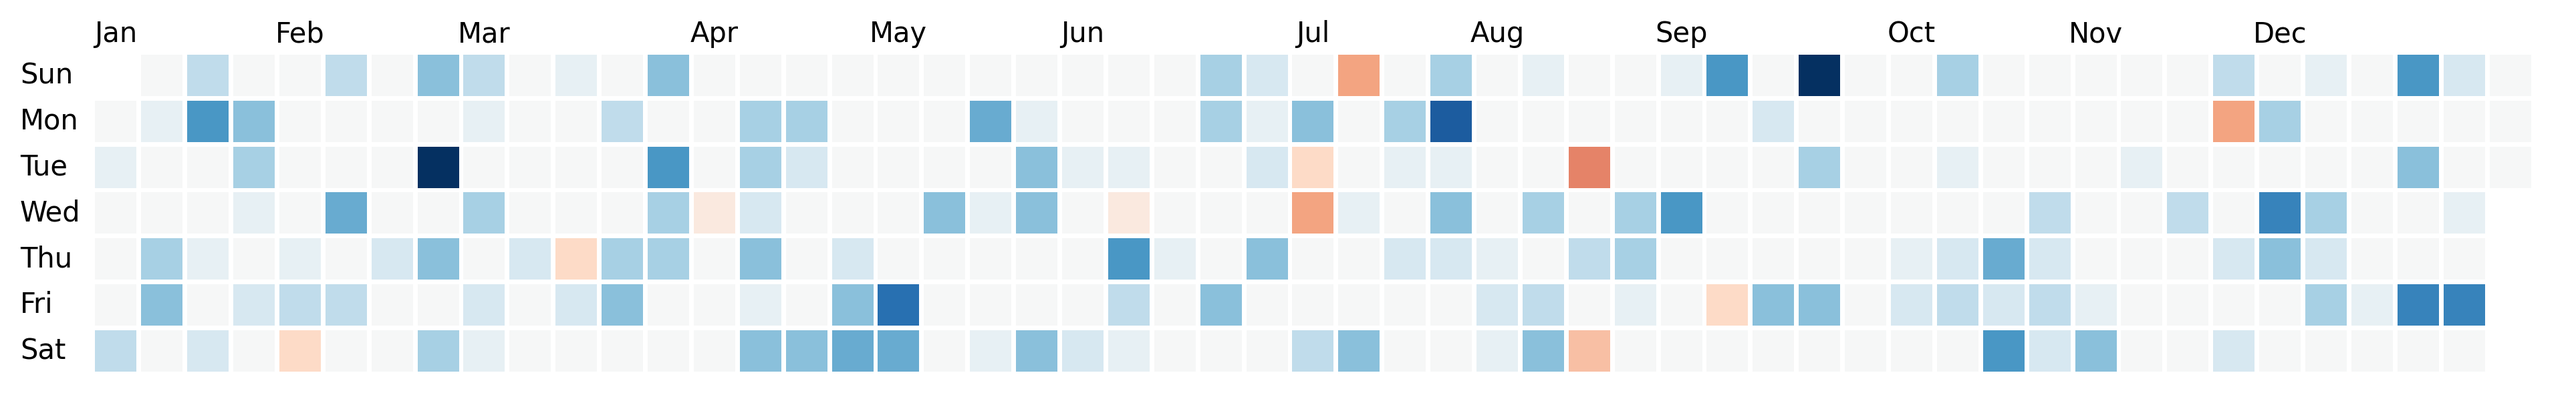
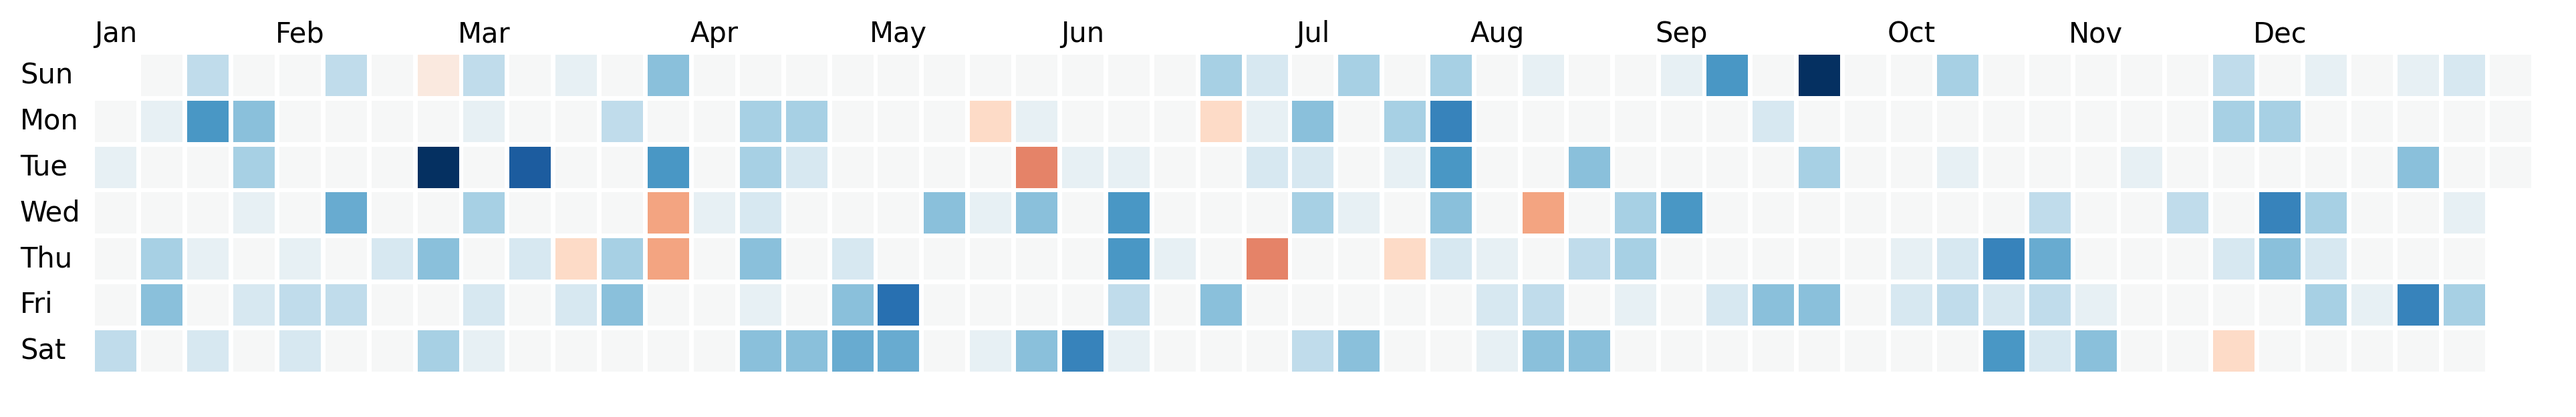
more advanced

diff --git a/docs/scripts/make.py b/docs/scripts/make.py
@@ -1,4 +1,6 @@
 import matplotlib.pyplot as plt
+import numpy as np
+from PIL import Image
 from pypalettes import load_cmap
 from pyfonts import load_font
 import os
@@ -95,6 +97,7 @@ dp.calendar(
     values=df["values"],
     start_date="2025-01-01",
     end_date="2025-12-31",
+    cmap="Blues",
     ax=ax1,  # top axes
 )
 dp.calendar(
@@ -102,6 +105,7 @@ dp.calendar(
     values=df["values"],
     start_date="2024-01-01",
     end_date="2024-12-31",
+    cmap="Blues",
     ax=ax2,  # bottom axes
 )
 
@@ -115,6 +119,7 @@ dp.calendar(
     values=df["values"],
     start_date="2025-01-01",
     end_date="2025-12-31",
+    cmap="inferno",
     ax=ax1,  # top axes
 )
 dp.calendar(
@@ -122,6 +127,7 @@ dp.calendar(
     values=df["values"],
     start_date="2024-01-01",
     end_date="2024-12-31",
+    cmap="inferno",
     ax=ax2,  # bottom axes
 )
 text_args = dict(x=-4, y=3.5, size=30, rotation=90, color="#afafaf", va="center")
@@ -328,6 +334,69 @@ axs[1].text(s="2018", **text_args)
 axs[2].text(s="2017", **text_args)
 
 fig.savefig("docs/img/advanced/advanced-1.png", bbox_inches="tight", dpi=300)
+
+########################################################################
+
+df = pd.read_csv("elonmusk.csv")
+df["Datetime"] = pd.to_datetime(df["Datetime"])
+df["Date"] = df["Datetime"].dt.strftime("%Y-%m-%d")
+df = df.groupby("Date").size().reset_index(name="n_tweets")
+df = df[df["Date"] <= "2022-12-31"]
+df = df[df["Date"] >= "2011-01-01"]
+
+cmap = load_cmap("deep_purple_material", cmap_type="continuous", keep_last_n=10)
+cmap = load_cmap("ag_Sunset", cmap_type="continuous", reverse=True)
+font_url = "https://github.com/kosmynkab/Bona-Nova/blob/main/fonts/ttf"
+fontlight = load_font(f"{font_url}/BonaNova-Regular.ttf?raw=true")
+fontmedium = load_font(f"{font_url}/BonaNova-Bold.ttf?raw=true")
+font_url = "https://github.com/coreyhu/Urbanist/blob/main/fonts/ttf"
+fontyear = load_font(f"{font_url}/Urbanist-Medium.ttf?raw=true")
+
+style_args = dict(
+    cmap=cmap,
+    day_kws={"alpha": 0},
+    month_kws={"font": fontlight, "size": 6},
+    month_y_margin=0.8,
+    color_for_none="#eeeeee",
+)
+text_args = dict(
+    x=-4, y=3.5, size=15, rotation=90, color="#aaa", va="center", font=fontyear
+)
+
+years = list(range(2011, 2023))[::-1]
+fig, axs = plt.subplots(nrows=len(years), figsize=(15, 10))
+for i, year in enumerate(years):
+    dp.calendar(
+        df["Date"],
+        df["n_tweets"],
+        start_date=f"{year}-01-01",
+        end_date=f"{year}-12-31",
+        ax=axs[i],
+        **style_args,
+    )
+    axs[i].text(s=f"{year}", **text_args)
+
+fig.text(
+    x=0.39,
+    y=0.91,
+    s="Elon Musk Tweets",
+    size=20,
+    font=fontmedium,
+)
+fig.text(
+    x=0.63,
+    y=0.1,
+    s="made with dayplot, by Joseph Barbier",
+    size=7,
+    ha="right",
+    font=fontmedium,
+)
+
+elon_ax = axs[0].inset_axes([0.7, 1.1, 0.3, 1.4])
+elon_ax.imshow(np.array(Image.open("docs/img/musk.png")))
+elon_ax.axis("off")
+
+fig.savefig("docs/img/advanced/advanced-2.png", bbox_inches="tight", dpi=300)
 
 ########################################################################
 

diff --git a/docs/scripts/gallery.py b/docs/scripts/gallery.py
@@ -85,5 +85,11 @@ def generate_gallery_markdown(image_dir, output_file, subdirs):
 if __name__ == "__main__":
     IMAGE_DIR = "docs/img/"
     OUTPUT_FILE = "docs/gallery.md"
-    SUBDIRECTORIES = ["basic-styling", "boxstyle", "combine-charts", "negative-values"]
+    SUBDIRECTORIES = [
+        "basic-styling",
+        "boxstyle",
+        "combine-charts",
+        "negative-values",
+        "advanced",
+    ]
     generate_gallery_markdown(IMAGE_DIR, OUTPUT_FILE, SUBDIRECTORIES)

diff --git a/docs/tuto/advanced.md b/docs/tuto/advanced.md
@@ -84,4 +84,80 @@ axs[2].text(s="2017", **text_args)
 
 ![](../img/advanced/advanced-1.png)
 
+## Elon Musk Tweets
+
+The dataset can be found [here](https://www.kaggle.com/datasets/aryansingh0909/elon-musk-tweets-updated-daily){target=\_blank} and the image of Musk [here](https://github.com/JosephBARBIERDARNAL/dayplot/blob/main/docs/img/musk.png).
+
+```py
+import pandas as pd
+import matplotlib.pyplot as plt
+import numpy as np
+from PIL import Image
+from pypalettes import load_cmap
+from pyfonts import load_font
+import dayplot as dp
+
+df = pd.read_csv("elonmusk.csv")
+df["Datetime"] = pd.to_datetime(df["Datetime"])
+df["Date"] = df["Datetime"].dt.strftime("%Y-%m-%d")
+df = df.groupby("Date").size().reset_index(name="n_tweets")
+df = df[df["Date"] <= "2022-12-31"]
+df = df[df["Date"] >= "2011-01-01"]
+
+cmap = load_cmap("ag_Sunset", cmap_type="continuous", reverse=True)
+
+font_url = "https://github.com/kosmynkab/Bona-Nova/blob/main/fonts/ttf"
+fontlight = load_font(f"{font_url}/BonaNova-Regular.ttf?raw=true")
+fontmedium = load_font(f"{font_url}/BonaNova-Bold.ttf?raw=true")
+
+font_url = "https://github.com/coreyhu/Urbanist/blob/main/fonts/ttf"
+fontyear = load_font(f"{font_url}/Urbanist-Medium.ttf?raw=true")
+
+style_args = dict(
+    cmap=cmap,
+    day_kws={"alpha": 0},
+    month_kws={"font": fontlight, "size": 6},
+    month_y_margin=0.8,
+    color_for_none="#eeeeee",
+)
+text_args = dict(
+    x=-4, y=3.5, size=15, rotation=90, color="#aaa", va="center", font=fontyear
+)
+
+years = list(range(2011, 2023))[::-1]
+fig, axs = plt.subplots(nrows=len(years), figsize=(15, 10), layout="tight")
+for i, year in enumerate(years):
+    dp.calendar(
+        df["Date"],
+        df["n_tweets"],
+        start_date=f"{year}-01-01",
+        end_date=f"{year}-12-31",
+        ax=axs[i],
+        **style_args,
+    )
+    axs[i].text(s=f"{year}", **text_args)
+
+fig.text(
+    x=0.39,
+    y=0.91,
+    s="Elon Musk Tweets",
+    size=20,
+    font=fontmedium,
+)
+fig.text(
+    x=0.63,
+    y=0.1,
+    s="made with dayplot, by Joseph Barbier",
+    size=7,
+    ha="right",
+    font=fontmedium,
+)
+
+elon_ax = axs[0].inset_axes([0.7, 1.1, 0.3, 1.4])
+elon_ax.imshow(np.array(Image.open("docs/img/musk.png")))
+elon_ax.axis("off")
+```
+
+![](../img/advanced/advanced-2.png)
+
 <br><br>

diff --git a/docs/tuto/combine-charts.md b/docs/tuto/combine-charts.md
@@ -15,6 +15,7 @@ dp.calendar(
     values=df["values"],
     start_date="2025-01-01",
     end_date="2025-12-31",
+    cmap="Blues",
     ax=ax1, # top axes
 )
 
@@ -23,6 +24,7 @@ dp.calendar(
     values=df["values"],
     start_date="2024-01-01",
     end_date="2024-12-31",
+    cmap="Blues",
     ax=ax2, # bottom axes
 )
 ```
@@ -48,6 +50,7 @@ dp.calendar(
     values=df["values"],
     start_date="2025-01-01",
     end_date="2025-12-31",
+    cmap="inferno",
     ax=ax1, # top axes
 )
 
@@ -56,6 +59,7 @@ dp.calendar(
     values=df["values"],
     start_date="2024-01-01",
     end_date="2024-12-31",
+    cmap="inferno",
     ax=ax2, # bottom axes
 )
 

diff --git a/docs/gallery.md b/docs/gallery.md
@@ -75,3 +75,15 @@
 
 <br>
 
+
+## Advanced
+
+[![advanced-1](img/advanced/advanced-1.png)](tuto/advanced.md)
+
+
+<br>
+[![advanced-2](img/advanced/advanced-2.png)](tuto/advanced.md)
+
+
+<br>
+
